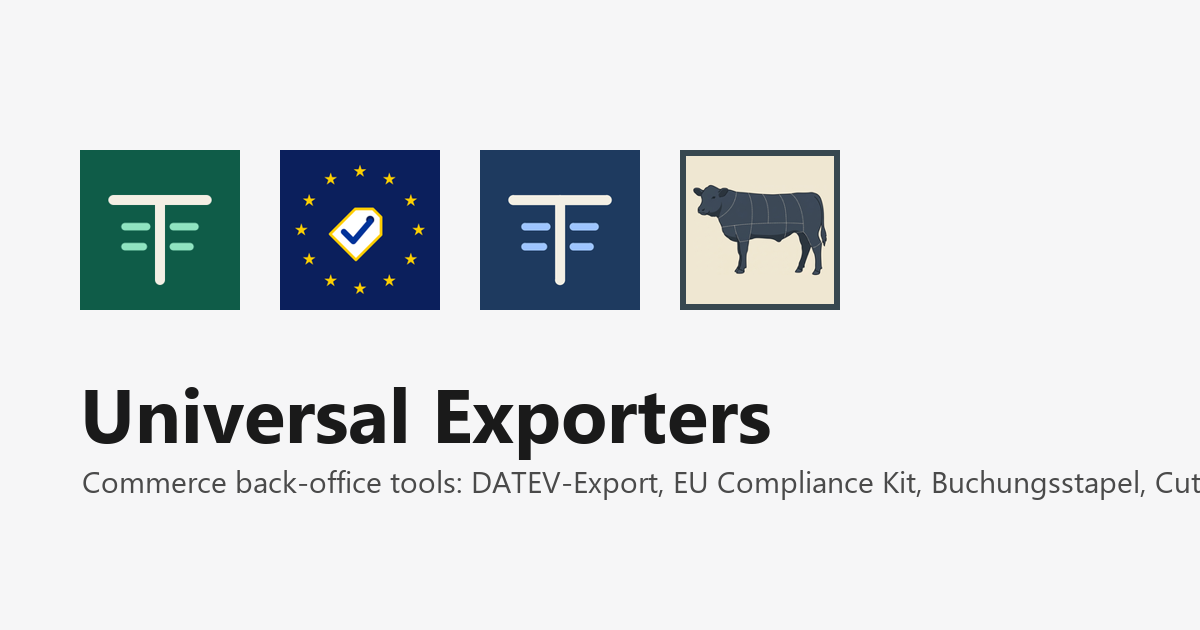
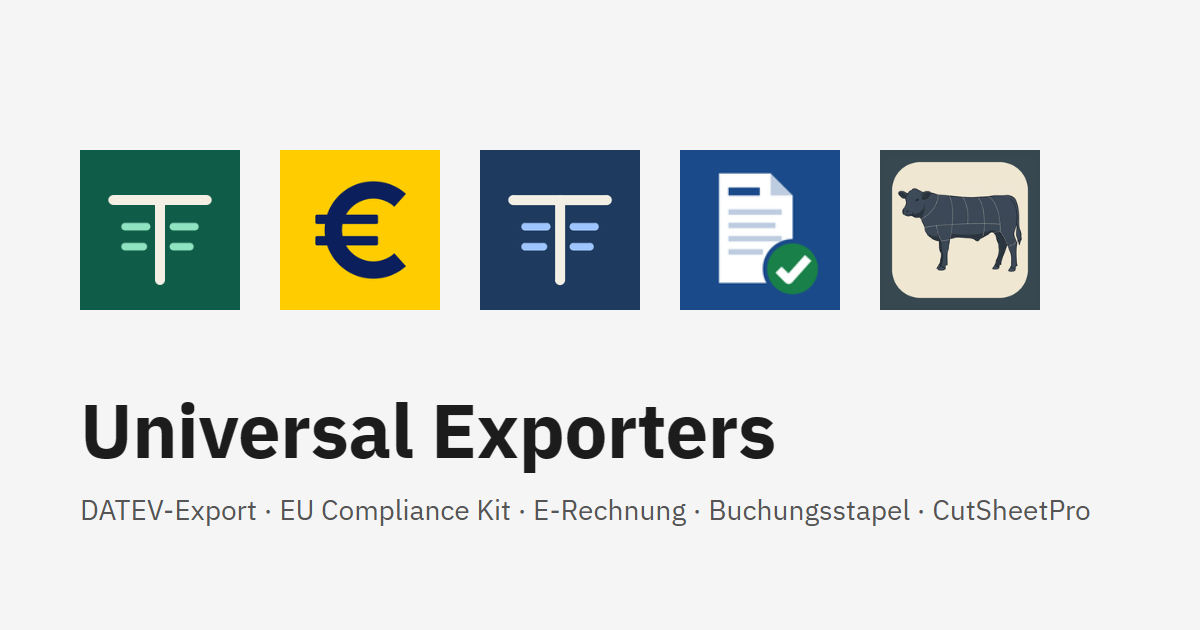
E-Rechnung card, green-claims line on EU Compliance Kit, meta + og image with all apps, EN + DE

Changed region(s): [[0.0617, 0.6032, 1.0, 0.8444], [0.555, 0.2111, 0.8942, 0.5127], [0.2158, 0.2111, 0.37, 0.5127]]

diff --git a/de/index.html b/de/index.html
@@ -4,7 +4,7 @@
 <meta charset="utf-8">
 <meta name="viewport" content="width=device-width, initial-scale=1">
 <title>Universal Exporters — Werkzeuge fürs Commerce-Backoffice</title>
-<meta name="description" content="Universal Exporters baut fokussierte Backoffice-Werkzeuge für den Onlinehandel: Export für DATEV für Wix und Shopify, EU Compliance Kit, CutSheetPro, Buchungsstapel und sein kostenloses WooCommerce-Exportplugin.">
+<meta name="description" content="Universal Exporters baut fokussierte Backoffice-Werkzeuge für den Onlinehandel: Export für DATEV für Wix und Shopify, EU Compliance Kit mit Prüfung von Umweltaussagen, E-Rechnung für Google Sheets und Excel (XRechnung, ZUGFeRD), Buchungsstapel und sein kostenloses WooCommerce-Plugin, CutSheetPro.">
 <link rel="icon" href="/datev.png">
 <link rel="canonical" href="https://justarobot.online/de/">
 <link rel="alternate" hreflang="en" href="https://justarobot.online/">
@@ -14,14 +14,14 @@
 <meta property="og:site_name" content="Universal Exporters">
 <meta property="og:locale" content="de_DE">
 <meta property="og:title" content="Universal Exporters — Werkzeuge fürs Commerce-Backoffice">
-<meta property="og:description" content="Fokussierte Backoffice-Werkzeuge für den Onlinehandel: Export für DATEV für Wix und Shopify, EU Compliance Kit, CutSheetPro, Buchungsstapel und sein kostenloses WooCommerce-Exportplugin.">
+<meta property="og:description" content="Fokussierte Backoffice-Werkzeuge für den Onlinehandel: Export für DATEV für Wix und Shopify, EU Compliance Kit mit Prüfung von Umweltaussagen, E-Rechnung für Google Sheets und Excel (XRechnung, ZUGFeRD), Buchungsstapel und sein kostenloses WooCommerce-Plugin, CutSheetPro.">
 <meta property="og:url" content="https://justarobot.online/de/">
 <meta property="og:image" content="https://justarobot.online/og.png">
 <meta property="og:image:width" content="1200">
 <meta property="og:image:height" content="630">
 <meta name="twitter:card" content="summary_large_image">
 <meta name="twitter:title" content="Universal Exporters — Werkzeuge fürs Commerce-Backoffice">
-<meta name="twitter:description" content="Fokussierte Backoffice-Werkzeuge für den Onlinehandel: Export für DATEV für Wix und Shopify, EU Compliance Kit, CutSheetPro, Buchungsstapel und sein kostenloses WooCommerce-Exportplugin.">
+<meta name="twitter:description" content="Fokussierte Backoffice-Werkzeuge für den Onlinehandel: Export für DATEV für Wix und Shopify, EU Compliance Kit mit Prüfung von Umweltaussagen, E-Rechnung für Google Sheets und Excel (XRechnung, ZUGFeRD), Buchungsstapel und sein kostenloses WooCommerce-Plugin, CutSheetPro.">
 <meta name="twitter:image" content="https://justarobot.online/og.png">
 <script type="application/ld+json">{"@context":"https://schema.org","@type":"Organization","name":"Universal Exporters","url":"https://justarobot.online","logo":"https://justarobot.online/datev.png","sameAs":["https://github.com/justarob0x","https://www.youtube.com/@universalexportersllc"],"address":{"@type":"PostalAddress","streetAddress":"10006 Rolke Rd","addressLocality":"Houston","addressRegion":"TX","postalCode":"77099","addressCountry":"US"}}</script>
 <link rel="preload" href="/fonts/ibm-plex-sans-normal.woff2" as="font" type="font/woff2" crossorigin>
@@ -40,7 +40,7 @@
     <section class="title">
       <h1>Jedes Werkzeug erledigt eine Backoffice‑Aufgabe richtig.</h1>
       <p class="lede">Kleine, fokussierte Apps für Compliance und Buchhaltung im Onlinehandel. Nichts angeschraubt.</p>
-      <p class="aside">Export für DATEV und EU Compliance Kit sind Wix‑Apps (mit Shopify‑Versionen), eine ist eine Shopify‑App, eine eine Web‑App für deutsche und österreichische Steuerberater, eine ein kostenloses WooCommerce‑Plugin. Jede hat eine eigene Website, Support‑Adresse, Datenschutzerklärung und AGB.</p>
+      <p class="aside">Export für DATEV und EU Compliance Kit sind Wix‑Apps (mit Shopify‑Versionen), eine ist eine Shopify‑App, eine eine Web‑App für deutsche und österreichische Steuerberater, eine ein kostenloses WooCommerce‑Plugin, und E‑Rechnung ist ein Add‑on für Google Sheets und Excel. Jede hat eine eigene Website, Support‑Adresse, Datenschutzerklärung und AGB.</p>
     </section>
 
     <ul class="index">
@@ -63,7 +63,7 @@
         <img class="tool__icon" src="/eucompliance.png" alt="" width="48" height="48">
         <div>
           <h2><a href="https://eucompliance.justarobot.online">EU Compliance Kit</a></h2>
-          <p>Neun EU‑Regeln auf der Produktseite: der Omnibus‑Vorpreis der letzten 30 Tage, der Widerrufsbutton, der Hinweis auf die gesetzliche Gewährleistung, die Preiszeile, Lieferzeit, Batterie‑ und Elektroschrott‑Hinweise, GPSR‑Sicherheitsangaben, das GARAN‑Haltbarkeitslabel und Lebensmittelinformationen. Sechs davon im kostenlosen Plan auf Wix. <a href="https://www.wix.com/app-market/universal-exporters-llc-eu-compliance-kit">Im Wix App Market</a>.</p>
+          <p>Neun EU‑Regeln auf der Produktseite: der Omnibus‑Vorpreis der letzten 30 Tage, der Widerrufsbutton, der Hinweis auf die gesetzliche Gewährleistung, die Preiszeile, Lieferzeit, Batterie‑ und Elektroschrott‑Hinweise, GPSR‑Sicherheitsangaben, das GARAN‑Haltbarkeitslabel und Lebensmittelinformationen. Sechs davon im kostenlosen Plan auf Wix. Neu seit dem 27. September 2026, seit die EU‑Regeln für Umweltaussagen gelten: eine Prüfung, die Produkttexte liest und Formulierungen wie „nachhaltig“ oder „klimaneutral“ markiert, die jetzt einen Nachweis oder eine genauere Formulierung brauchen – mit Vorschlägen zum Umformulieren. Auf Wix kostenlos. <a href="https://www.wix.com/app-market/universal-exporters-llc-eu-compliance-kit">Im Wix App Market</a>.</p>
         </div>
         <div class="tool__meta">
           <span><span class="k">Typ</span><b><svg class="brand brand--wix" role="img" aria-label="Wix"><use href="#wix"/></svg>‑App · <svg class="brand" aria-hidden="true"><use href="#shopify"/></svg>Shopify‑App</b></span>
@@ -102,6 +102,21 @@
           <span><span class="k">Hosting</span><b>Läuft auf Ihrem Server</b></span>
           <span><span class="k">Website</span><a href="https://wordpress.org/plugins/buchungsstapel-order-export-for-woocommerce/">wordpress.org</a></span>
           <span><span class="k">Installieren</span><a class="install" href="https://wordpress.org/plugins/buchungsstapel-order-export-for-woocommerce/">Von wordpress.org laden</a></span>
+        </div>
+      </li>
+
+      <li class="tool">
+        <img class="tool__icon" src="/erechnung.png" alt="" width="48" height="48">
+        <div>
+          <h2><a href="https://erechnung.justarobot.online">E‑Rechnung</a></h2>
+          <p>XRechnung und ZUGFeRD aus der Tabelle, für die E‑Rechnungspflicht. Rechnungen als Zeilen schreiben; das Add‑on prüft sie gegen die Regeln von EN 16931 und XRechnung, zeigt auf die fehlerhafte Zelle und erstellt das ZUGFeRD‑PDF oder das XRechnung‑XML (CII oder UBL). Deutsche Steuerfälle vom Kleinunternehmer bis Reverse Charge, Leitweg‑ID, GiroCode, DATEV‑Buchungsstapel für die Steuerberatung, und empfangene E‑Rechnungen werden in die Tabelle eingelesen. Die Rechnungsdaten bleiben in Ihrem Google‑Konto bzw. Ihrer Arbeitsmappe. 30 Tage kostenlos testen. Dazu ein <a href="https://erechnung.justarobot.online/xrechnung-oeffnen">kostenloser XRechnung‑Viewer</a>, der eine empfangene E‑Rechnung im Browser öffnet, ohne sie hochzuladen.</p>
+        </div>
+        <div class="tool__meta">
+          <span><span class="k">Typ</span><b>Sheets‑ &amp; Excel‑Add‑on</b></span>
+          <span><span class="k">Sprache</span><b>Deutsch, Englisch</b></span>
+          <span><span class="k">Hosting</span><b>Läuft in Ihrer Tabelle</b></span>
+          <span><span class="k">Website</span><a href="https://erechnung.justarobot.online">erechnung.justarobot.online</a></span>
+          <span><span class="k">Kostenlos</span><a href="https://erechnung.justarobot.online/xrechnung-oeffnen">XRechnung öffnen</a></span>
         </div>
       </li>
 

diff --git a/index.html b/index.html
@@ -4,7 +4,7 @@
 <meta charset="utf-8">
 <meta name="viewport" content="width=device-width, initial-scale=1">
 <title>Universal Exporters — commerce back-office tools</title>
-<meta name="description" content="Universal Exporters builds focused commerce back-office tools: Export für DATEV for Wix and Shopify, EU Compliance Kit, CutSheetPro, Buchungsstapel and its free WooCommerce export plugin.">
+<meta name="description" content="Universal Exporters builds focused commerce back-office tools: Export für DATEV for Wix and Shopify, EU Compliance Kit with the green-claims check, E-Rechnung for Google Sheets and Excel (XRechnung, ZUGFeRD), Buchungsstapel and its free WooCommerce plugin, CutSheetPro.">
 <link rel="icon" href="datev.png">
 <link rel="canonical" href="https://justarobot.online/">
 <link rel="alternate" hreflang="en" href="https://justarobot.online/">
@@ -13,14 +13,14 @@
 <meta property="og:type" content="website">
 <meta property="og:site_name" content="Universal Exporters">
 <meta property="og:title" content="Universal Exporters — commerce back-office tools">
-<meta property="og:description" content="Focused commerce back-office tools: Export für DATEV for Wix and Shopify, EU Compliance Kit, CutSheetPro, Buchungsstapel and its free WooCommerce export plugin.">
+<meta property="og:description" content="Focused commerce back-office tools: Export für DATEV for Wix and Shopify, EU Compliance Kit with the green-claims check, E-Rechnung for Google Sheets and Excel (XRechnung, ZUGFeRD), Buchungsstapel and its free WooCommerce plugin, CutSheetPro.">
 <meta property="og:url" content="https://justarobot.online/">
 <meta property="og:image" content="https://justarobot.online/og.png">
 <meta property="og:image:width" content="1200">
 <meta property="og:image:height" content="630">
 <meta name="twitter:card" content="summary_large_image">
 <meta name="twitter:title" content="Universal Exporters — commerce back-office tools">
-<meta name="twitter:description" content="Focused commerce back-office tools: Export für DATEV for Wix and Shopify, EU Compliance Kit, CutSheetPro, Buchungsstapel and its free WooCommerce export plugin.">
+<meta name="twitter:description" content="Focused commerce back-office tools: Export für DATEV for Wix and Shopify, EU Compliance Kit with the green-claims check, E-Rechnung for Google Sheets and Excel (XRechnung, ZUGFeRD), Buchungsstapel and its free WooCommerce plugin, CutSheetPro.">
 <meta name="twitter:image" content="https://justarobot.online/og.png">
 <script type="application/ld+json">{"@context":"https://schema.org","@type":"Organization","name":"Universal Exporters","url":"https://justarobot.online","logo":"https://justarobot.online/datev.png","sameAs":["https://github.com/justarob0x","https://www.youtube.com/@universalexportersllc"],"address":{"@type":"PostalAddress","streetAddress":"10006 Rolke Rd","addressLocality":"Houston","addressRegion":"TX","postalCode":"77099","addressCountry":"US"}}</script>
 <link rel="preload" href="fonts/ibm-plex-sans-normal.woff2" as="font" type="font/woff2" crossorigin>
@@ -39,7 +39,7 @@
     <section class="title">
       <h1>Each tool does one back‑office job properly.</h1>
       <p class="lede">Small, focused apps for commerce compliance and bookkeeping. Nothing else bolted on.</p>
-      <p class="aside">Export für DATEV and EU Compliance Kit are Wix apps (with Shopify versions), one is a Shopify app, one is a web app for German and Austrian tax advisors, one is a free WooCommerce plugin. Each has its own site, support address, privacy policy and terms.</p>
+      <p class="aside">Export für DATEV and EU Compliance Kit are Wix apps (with Shopify versions), one is a Shopify app, one is a web app for German and Austrian tax advisors, one is a free WooCommerce plugin, and E-Rechnung is an add-on for Google Sheets and Excel. Each has its own site, support address, privacy policy and terms.</p>
     </section>
 
     <ul class="index">
@@ -62,7 +62,7 @@
         <img class="tool__icon" src="eucompliance.png" alt="" width="48" height="48">
         <div>
           <h2><a href="https://eucompliance.justarobot.online">EU Compliance Kit</a></h2>
-          <p>Nine EU rules on the product page: Omnibus 30-day prior price, the withdrawal button, the EU legal guarantee notice, the price line, delivery time, battery and e-waste notices, GPSR safety details, the GARAN durability label and food information. Six are on the free plan on Wix. <a href="https://www.wix.com/app-market/universal-exporters-llc-eu-compliance-kit">In the Wix App Market</a>.</p>
+          <p>Nine EU rules on the product page: Omnibus 30-day prior price, the withdrawal button, the EU legal guarantee notice, the price line, delivery time, battery and e-waste notices, GPSR safety details, the GARAN durability label and food information. Six are on the free plan on Wix. New since 27 September 2026, when the EU rules on environmental claims took effect: a check that reads product texts and flags wording such as “sustainable” or “climate neutral” that now needs proof or more precise wording, with suggested rewrites. Free on Wix. <a href="https://www.wix.com/app-market/universal-exporters-llc-eu-compliance-kit">In the Wix App Market</a>.</p>
         </div>
         <div class="tool__meta">
           <span><span class="k">Type</span><b><svg class="brand brand--wix" role="img" aria-label="Wix"><use href="#wix"/></svg>app · <svg class="brand" aria-hidden="true"><use href="#shopify"/></svg>Shopify app</b></span>
@@ -101,6 +101,21 @@
           <span><span class="k">Hosting</span><b>Runs on your server</b></span>
           <span><span class="k">Site</span><a href="https://wordpress.org/plugins/buchungsstapel-order-export-for-woocommerce/">wordpress.org</a></span>
           <span><span class="k">Install</span><a class="install" href="https://wordpress.org/plugins/buchungsstapel-order-export-for-woocommerce/">Get from wordpress.org</a></span>
+        </div>
+      </li>
+
+      <li class="tool">
+        <img class="tool__icon" src="erechnung.png" alt="" width="48" height="48">
+        <div>
+          <h2><a href="https://erechnung.justarobot.online">E-Rechnung</a></h2>
+          <p>XRechnung and ZUGFeRD invoices from a spreadsheet, for the German e-invoicing mandate. Write invoices as rows; the add-on checks them against EN 16931 and XRechnung rules, points at the cell that is wrong, and creates the ZUGFeRD PDF or the XRechnung XML (CII or UBL). German tax cases from Kleinunternehmer to reverse charge, Leitweg-ID, GiroCode, a DATEV booking batch, and incoming e-invoices read back into the sheet. Invoice data stays in your Google account or your workbook. 30-day free trial. Plus a <a href="https://erechnung.justarobot.online/xrechnung-oeffnen">free XRechnung viewer</a> that opens a received e-invoice in the browser without uploading it.</p>
+        </div>
+        <div class="tool__meta">
+          <span><span class="k">Type</span><b>Sheets &amp; Excel add-on</b></span>
+          <span><span class="k">Language</span><b>German, English</b></span>
+          <span><span class="k">Hosting</span><b>Runs in your sheet</b></span>
+          <span><span class="k">Site</span><a href="https://erechnung.justarobot.online">erechnung.justarobot.online</a></span>
+          <span><span class="k">Free tool</span><a href="https://erechnung.justarobot.online/xrechnung-oeffnen">XRechnung viewer</a></span>
         </div>
       </li>
 
